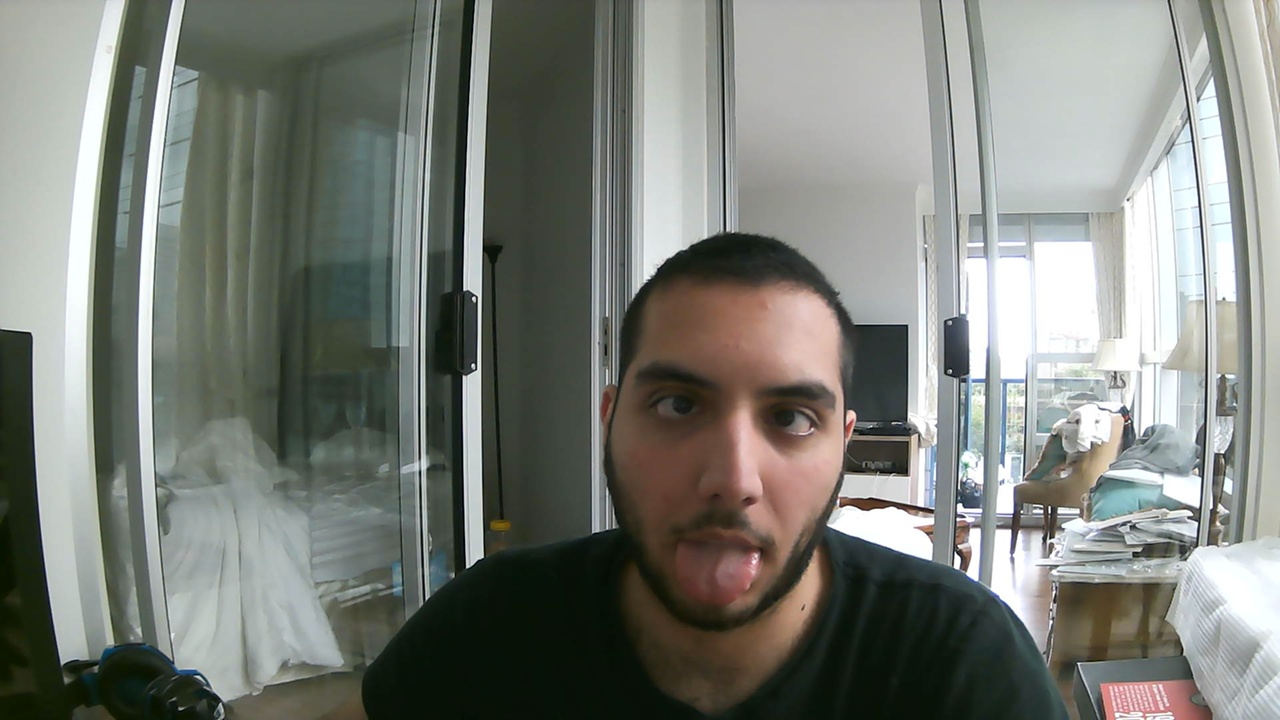
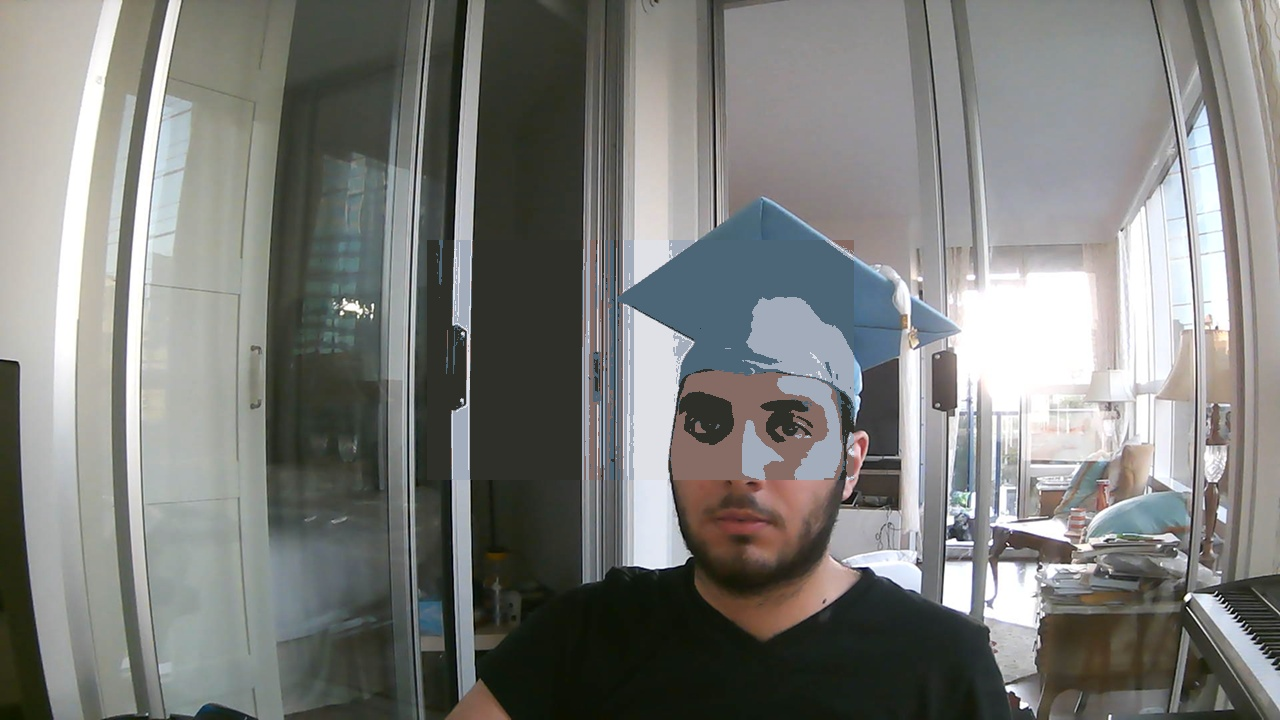
apply filteres to captured images & a vital change

diff --git a/example.py b/example.py
@@ -173,6 +173,9 @@ class Video(Widget):
         # need to get current pathfrom OS to avoid issues with imwrite (note directory is found relative to scripts directory)
         dir = os.path.join(self.picSaveFolder, date + patientName + ".jpg")
 
+        # apply filters to this captured frame
+        frame = self.applyFilters(frame)
+
         # cv2.imwrite fails silently if path is incorrect
         if not cv2.imwrite(dir, frame):
             raise Exception("Could not write image")
